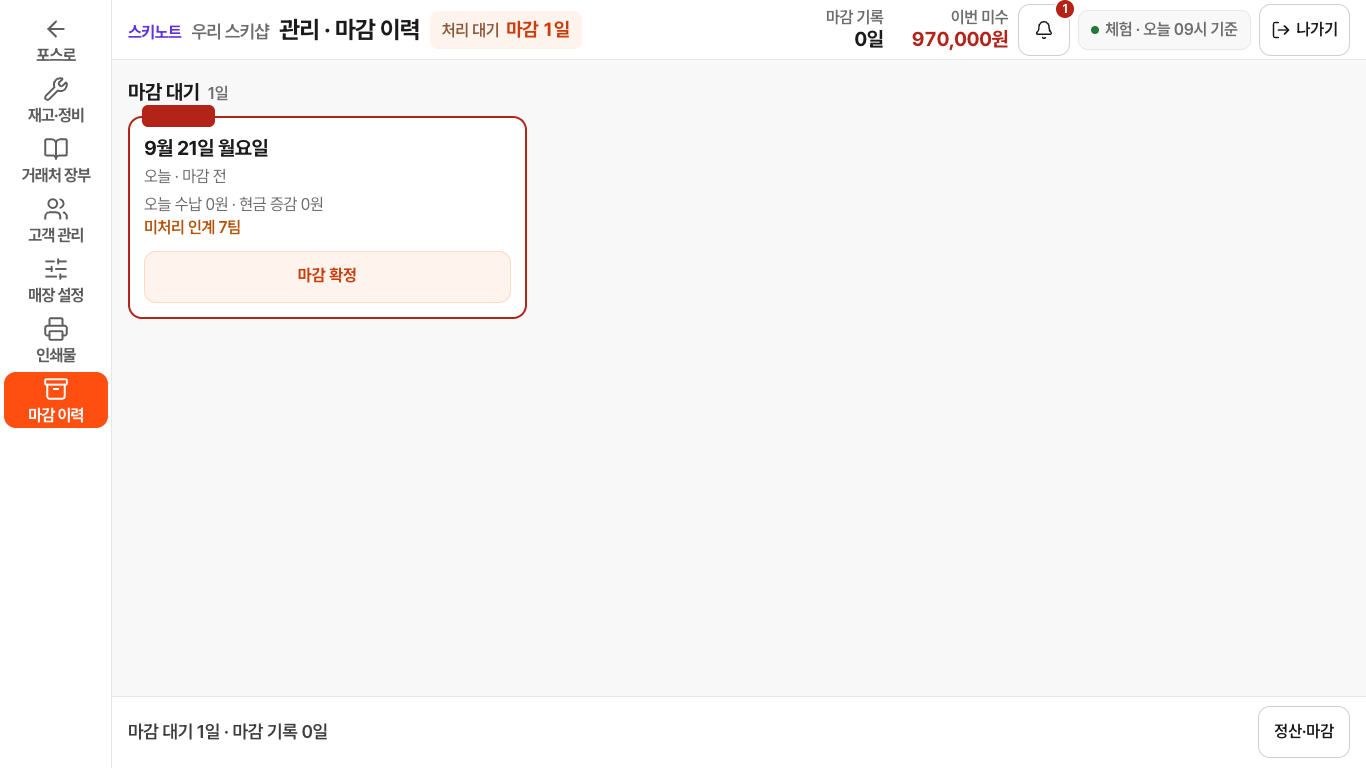
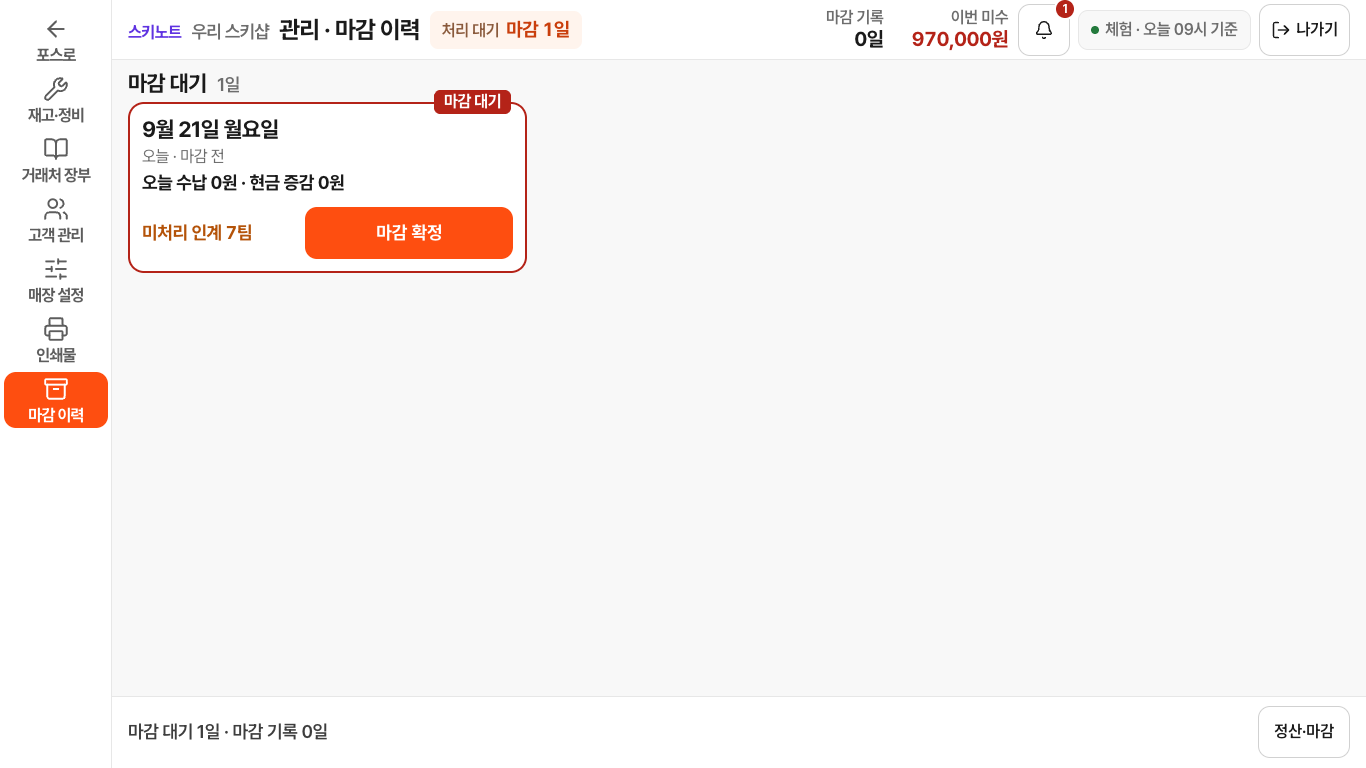
feat(pos): finish UI v4 — legacy link, cleanup and the record (M8)
- the ticket board no longer jumps to the old shell for a linked
  reservation; it explains the link in a POS window instead
- vehicle stock (store view) uses the fixed card, so the legacy card
  builder, the steps option and 31 unused style rules are removed
- docs/43 records the v4 work; docs/35 and docs/30 list the new check
  sizes (907×648, driver tablet and phone sizes); README gets one line
- final run: six POS smoke suites, 178 workflow, 25 returns and 18
  notification tests pass; 142 measured places are at zero on all rules;
  test:navigation and test:pwa already fail on main and are unrelated
- final captures (55 POS + 11 driver) are committed; bundle 1,594,581 bytes
- main and Pages are not touched: the release waits for confirmation

Changed region(s): [[0.0922, 0.0938, 0.3997, 0.375], [0.0922, 0.3438, 0.123, 0.375]]

diff --git a/design/app/pos-shell.css b/design/app/pos-shell.css
@@ -102,7 +102,6 @@
 #ski-ops[data-pos="true"] .pos-group-head{display:flex;align-items:baseline;gap:8px;margin:0 0 10px;font-size:20px;font-weight:700;letter-spacing:-.02em}
 #ski-ops[data-pos="true"] .pos-group-head small{font-size:16px;font-weight:600;color:var(--so-muted)}
 #ski-ops[data-pos="true"] .pos-card-grid{display:grid;grid-template-columns:repeat(auto-fill,minmax(360px,1fr));gap:12px;align-items:start}
-#ski-ops[data-pos="true"] .pos-card-grid.is-steps{grid-template-columns:repeat(auto-fill,minmax(280px,1fr))}
 #ski-ops[data-pos="true"] .pos-card{position:relative;display:flex;flex-direction:column;gap:6px;box-sizing:border-box;min-width:0;padding:16px;border-radius:14px;background:#fff;box-shadow:inset 0 0 0 1px var(--so-line)}
 #ski-ops[data-pos="true"] .pos-card[data-tone="red"],
 #ski-ops[data-pos="true"] .pos-card[data-tone="orange"],
@@ -127,37 +126,11 @@
 #ski-ops[data-pos="true"] .pos-badge[data-tone="blue"]{background:#e9f4ff;color:var(--tone-blue)}
 #ski-ops[data-pos="true"] .pos-badge[data-tone="purple"]{background:#efe8ff;color:var(--tone-purple)}
 #ski-ops[data-pos="true"] .pos-card-meta{font-size:var(--pos-fs-min);color:var(--so-muted);white-space:nowrap;overflow:hidden;text-overflow:ellipsis;font-variant-numeric:tabular-nums}
-#ski-ops[data-pos="true"] .pos-card-items{display:flex;flex-direction:column;gap:2px;min-width:0}
-#ski-ops[data-pos="true"] .pos-card-item{display:flex;align-items:baseline;justify-content:space-between;gap:10px;min-width:0;font-size:18px;font-weight:700;letter-spacing:-.02em;line-height:1.3}
-#ski-ops[data-pos="true"] .pos-card-item>span:first-child{min-width:0;white-space:nowrap;overflow:hidden;text-overflow:ellipsis}
-#ski-ops[data-pos="true"] .pos-card-item>span:last-child{flex-shrink:0;font-size:var(--pos-fs-min);font-weight:600;color:var(--tone-grey)}
-#ski-ops[data-pos="true"] .pos-card-item.is-done>span:first-child{text-decoration:line-through;color:var(--so-muted);font-weight:600}
-#ski-ops[data-pos="true"] .pos-card-item>span[data-tone="red"]{color:var(--tone-red)}
-#ski-ops[data-pos="true"] .pos-card-item>span[data-tone="orange"]{color:var(--tone-orange)}
-#ski-ops[data-pos="true"] .pos-card-item>span[data-tone="green"]{color:var(--tone-green)}
-#ski-ops[data-pos="true"] .pos-card-item>span[data-tone="blue"]{color:var(--tone-blue)}
-#ski-ops[data-pos="true"] .pos-card-item>span[data-tone="purple"]{color:var(--tone-purple)}
 #ski-ops[data-pos="true"] .pos-card-money{display:flex;flex-wrap:wrap;gap:4px 14px;font-size:17px;font-weight:700;letter-spacing:-.02em;font-variant-numeric:tabular-nums}
 #ski-ops[data-pos="true"] .pos-card-money span[data-tone="red"]{color:var(--tone-red)}
 #ski-ops[data-pos="true"] .pos-card-money span[data-tone="blue"]{color:var(--tone-blue)}
 #ski-ops[data-pos="true"] .pos-card-money span[data-tone="green"]{color:var(--tone-green)}
 #ski-ops[data-pos="true"] .pos-card-money span[data-tone="grey"]{color:var(--so-muted);font-weight:600}
-#ski-ops[data-pos="true"] .pos-card-figures{display:flex;align-items:flex-end;justify-content:space-between;gap:10px}
-#ski-ops[data-pos="true"] .pos-card-figures>span{display:flex;flex-direction:column;gap:2px;min-width:0}
-#ski-ops[data-pos="true"] .pos-card-figures>span:last-child{align-items:flex-end;text-align:right}
-#ski-ops[data-pos="true"] .pos-card-figures small{font-size:var(--pos-fs-min);font-weight:600;color:var(--so-muted)}
-#ski-ops[data-pos="true"] .pos-card-figures strong{font-size:28px;font-weight:700;letter-spacing:-.03em;line-height:1.05;font-variant-numeric:tabular-nums;white-space:nowrap}
-#ski-ops[data-pos="true"] .pos-card-figures strong.is-when{font-size:19px}
-#ski-ops[data-pos="true"] .pos-card-figures strong[data-tone="red"]{color:var(--tone-red)}
-#ski-ops[data-pos="true"] .pos-card-figures strong[data-tone="orange"]{color:var(--tone-orange)}
-#ski-ops[data-pos="true"] .pos-card-figures strong[data-tone="purple"]{color:var(--tone-purple)}
-#ski-ops[data-pos="true"] .pos-card-figures strong[data-tone="green"]{color:var(--tone-green)}
-#ski-ops[data-pos="true"] .pos-card-lines{display:flex;flex-direction:column;gap:1px;min-width:0}
-#ski-ops[data-pos="true"] .pos-card-lines span{font-size:var(--pos-fs-min);line-height:1.35;color:var(--so-muted);white-space:nowrap;overflow:hidden;text-overflow:ellipsis}
-#ski-ops[data-pos="true"] .pos-card-lines span[data-tone="red"]{color:var(--tone-red);font-weight:600}
-#ski-ops[data-pos="true"] .pos-card-lines span[data-tone="orange"]{color:var(--tone-orange);font-weight:600}
-#ski-ops[data-pos="true"] .pos-card-lines span[data-tone="purple"]{color:var(--tone-purple);font-weight:600}
-#ski-ops[data-pos="true"] .pos-card-lines span[data-tone="green"]{color:var(--tone-green);font-weight:600}
 #ski-ops[data-pos="true"] .pos-card-actions{display:flex;gap:8px;margin-top:6px}
 #ski-ops[data-pos="true"] .pos-card-actions .pos-button{flex:1;min-width:0;min-height:var(--pos-touch);padding:8px 10px;white-space:nowrap;overflow:hidden;text-overflow:ellipsis}
 #ski-ops[data-pos="true"] .pos-card-actions .pos-button.primary{min-height:var(--pos-touch);font-size:var(--pos-fs-body)}

diff --git a/design/app/pos-shell.js b/design/app/pos-shell.js
@@ -78,21 +78,6 @@
   const chipGo = (label, route, id = '', on = false, extra = '') => '<button type="button" class="pos-chip' + (extra ? ' ' + e(extra) : '') + '" data-go="' + e(route) + '" data-id="' + e(id) + '" aria-pressed="' + (on ? 'true' : 'false') + '">' + e(label) + '</button>';
   const toolbarLabel = text => '<span class="pos-toolbar-label">' + e(text) + '</span>';
   const group = html => '<div class="pos-toolbar-group">' + html + '</div>';
-  // One card. Fields are optional; missing ones are skipped so the same builder serves every list screen.
-  function card(c) {
-    const tone = c.tone || '', strong = ['red', 'orange', 'green'].includes(tone);
-    const legend = strong && c.badge ? '<span class="pos-card-legend">' + e(c.badge[0]) + '</span>' : '';
-    const badgeHtml = !legend && c.badge ? badge(c.badge[0], c.badge[1] || 'grey') : '';
-    const head = '<span class="pos-card-head"><span class="pos-card-name">' + e(c.name) + '</span>' + (c.phone ? '<span class="pos-card-phone">' + e(c.phone) + '</span>' : '') + badgeHtml + '</span>';
-    const meta = c.meta ? '<span class="pos-card-meta">' + e(c.meta) + '</span>' : '';
-    const figures = c.figures?.length ? '<span class="pos-card-figures">' + c.figures.map(f => '<span><small>' + e(f.label) + '</small><strong' + (f.when ? ' class="is-when"' : '') + ' data-tone="' + e(f.tone || '') + '">' + e(f.value) + '</strong></span>').join('') + '</span>' : '';
-    const items = c.items?.length ? '<span class="pos-card-items">' + c.items.map(([text, state, t, done]) => '<span class="pos-card-item' + (done ? ' is-done' : '') + '"><span>' + e(text) + '</span><span data-tone="' + e(t || 'grey') + '">' + e(state || '') + '</span></span>').join('') + '</span>' : '';
-    const lines = c.lines?.length ? '<span class="pos-card-lines">' + c.lines.map(([text, t]) => '<span data-tone="' + e(t || '') + '">' + e(text) + '</span>').join('') + '</span>' : '';
-    const money = c.money?.length ? '<span class="pos-card-money">' + c.money.map(([text, t]) => '<span data-tone="' + e(t || 'ink') + '">' + e(text) + '</span>').join('') + '</span>' : '';
-    const inner = head + meta + figures + items + lines + money;
-    const open = c.go ? '<button type="button" class="pos-card-open" data-go="' + e(c.go.page) + '" data-id="' + e(c.go.id ?? '') + '">' + inner + '</button>' : '<div class="pos-card-open">' + inner + '</div>';
-    return '<article class="pos-card"' + (tone ? ' data-tone="' + e(tone) + '"' : '') + (c.id ? ' data-card-id="' + e(c.id) + '"' : '') + '>' + legend + open + (c.actions ? '<div class="pos-card-actions">' + c.actions + '</div>' : '') + '</article>';
-  }
   // Grouped card grid. Legacy mode scrolls inside this region; v4 lists pass { fixed: true } and page by height instead (no scrolling).
   function cards(groups, options = {}) {
     const filled = groups.filter(g => g.cards && g.cards.length);
@@ -105,7 +90,7 @@
     }
     if (!filled.length) return '<div class="pos-cards" data-pos-scroll><div class="pos-empty"><strong>' + e(options.empty || '항목 없음') + '</strong>' + (options.emptyNote ? '<span>' + e(options.emptyNote) + '</span>' : '') + (options.emptyAction || '') + '</div></div>';
     return '<div class="pos-cards" data-pos-scroll>' + filled.map(g => '<section class="pos-group">' + (g.title ? '<div class="pos-group-head">' + e(g.title) + (g.sub ? '<small>' + e(g.sub) + '</small>' : '') + '</div>' : '')
-      + '<div class="pos-card-grid' + (options.steps ? ' is-steps' : '') + '">' + g.cards.join('') + '</div></section>').join('') + '</div>';
+      + '<div class="pos-card-grid">' + g.cards.join('') + '</div></section>').join('') + '</div>';
   }
   // ---- UI v4 (docs/42 2-3 · 2-4): fixed four-row card, text that is fitted instead of clipped, paging by height ----
   // Rows are single lines. When a row is too narrow, whole low-priority parts are dropped (never an ellipsis):
@@ -315,7 +300,7 @@
     const container = S.$('.pos-cards[data-pos-cards]'); if (!container) return;
     setPage('cards', getPage('cards') + Number(delta), { render: false }); layoutCards(container, delta);
   });
-  S.pos = Object.freeze({ navigation, page, button, row, pager, getPage, setPage, modal, prepareModal, card, orderCard, tile, lineRow, cards, fitPage, choice, calendar, badge, search, chip, chipGo, toolbarLabel, group, terms, storeName, menus,
+  S.pos = Object.freeze({ navigation, page, button, row, pager, getPage, setPage, modal, prepareModal, orderCard, tile, lineRow, cards, fitPage, choice, calendar, badge, search, chip, chipGo, toolbarLabel, group, terms, storeName, menus,
     field: (label, value = '', type = 'text', attrs = '') => S.field(e(label), value, type, attrs),
     label: value => '<span class="pos-label">' + e(value) + '</span>'
   });

diff --git a/design/app/pos-tickets.js b/design/app/pos-tickets.js
@@ -19,7 +19,7 @@
   function stockRow(asset) {
     const assigned = pending(asset), location = asset.location.kind === 'shop' ? '매장 보관' : F.vehicleName(asset.location.id);
     const order = assigned && D.order(assigned.reservationId);
-    const actions = asset.condition !== 'ready' ? '<button class="so-button pos-button" data-go="inventory">분실·상태 확인</button>' : asset.refundId ? '<button class="so-button pos-button" data-go="dispatch">발권처 반환 업무</button>' : assigned ? order ? O.go('연결 접수 확인', 'order-detail', order.id) : '<button class="so-button pos-button" data-go="lift-reservations">연결 예약 확인</button>'
+    const actions = asset.condition !== 'ready' ? '<button class="so-button pos-button" data-go="inventory">분실·상태 확인</button>' : asset.refundId ? '<button class="so-button pos-button" data-go="dispatch">발권처 반환 업무</button>' : assigned ? order ? O.go('연결 접수 확인', 'order-detail', order.id) : button('연결 예약 확인', 'pos-ticket-linked', assigned.reservationId)
       : (asset.location.kind === 'vehicle' ? button('실제 매장 입고', 'pos-ticket-receive', asset.id) : button('판매행에 배정', 'pos-ticket-target', asset.id))
         + button('예비 보관', 'pos-ticket-spare', asset.id) + button('발권처 반환', 'pos-ticket-refund', asset.id);
     return P.row(title(asset) + ' · ' + location, asset.id + ' · ' + period(asset) + ' · ' + (asset.condition !== 'ready' ? ({lost:'분실 · 발견 확인 필요',inspection:'점검 대기',repair:'수리 대기',cleaning:'세척 대기'}[asset.condition] || asset.condition) : asset.refundId ? '발권처 반환 대기' : assigned ? (order?.customer.name || assigned.reservationId) + ' 배정 중' : asset.ticket.transferable ? '양도 가능' : '양도 불가'), actions);
@@ -92,6 +92,7 @@
     const asset = D.snapshot.assets.find(a => a.id === id);
     request('차량의 권을 실제로 매장에 받았나요?', '<div class="pos-info"><strong>' + e(title(asset) + ' · ' + asset.id) + '</strong><p>' + e(F.vehicleName(asset.location.id)) + ' → 매장 보관</p></div>', '실물 1매 매장 입고', 'tickets.receive', { assetIds: [id] });
   });
+  S.action('pos-ticket-linked', id => P.modal('연결 예약 확인', '<div class="pos-confirm-summary"><strong>예약 번호 ' + e(id) + '</strong><span>이 권은 포스 접수가 아닌 예전 예약에 묶여 있습니다</span><span>예약을 바꾸려면 접수·예약에서 같은 고객을 찾아 주세요</span></div>', button('닫기', 'close') + O.go('1 접수·예약 열기', 'intake', '', 'primary')));
   S.action('pos-ticket-spare', id => {
     const asset = D.snapshot.assets.find(a => a.id === id);
     if (asset.purpose === 'spare' && !pending(asset) && !asset.refundId) { S.toast('현재 위치에 예비 보관 중입니다.'); return; }

diff --git a/design/app/pos-dispatch.js b/design/app/pos-dispatch.js
@@ -116,7 +116,7 @@
     const orders = (D.snapshot.orders || []).filter(o => o.totals.vehicleQuantity > 0);
     const body = driver()
       ? P.pager(D.snapshot.vehicle.totals.filter(t => t.current), 'vehicle-stock', t => P.row(t.label + ' ' + t.current + t.unit + ' · 차량 보관', '매장 적재 ' + t.fromShop + ' · 고객 회수 ' + t.fromCustomer + ' · 환불 대기 ' + t.refundPending + ' · 전달 가능 ' + t.availableToDeliver), driverRows())
-      : P.cards([{ title: '매장 입고 대기', sub: orders.length + '팀 · 차량 보관 ' + assets.length + '개', cards: orders.map(o => P.card({ tone: 'orange', badge: ['차량 보관 중', 'purple'], name: o.customer.name + ' 팀', phone: o.customer.phone || '', meta: (o.receiptNo || o.id) + ' · 매장 입고 대기 ' + o.totals.vehicleQuantity + '개', items: U.items(o), actions: b('차량 입고 확인 ' + o.totals.vehicleQuantity + '개', 'pos-receive', o.id, 'soft'), go: { page: 'order-detail', id: o.id } })) }], { empty: '매장 입고 대기 없음', emptyNote: '차량 보관 ' + assets.length + '개' });
+      : P.cards([{ title: '매장 입고 대기', sub: orders.length + '팀 · 차량 보관 ' + assets.length + '개', cards: orders.map(o => P.orderCard({ id: o.id, tone: 'orange', badge: ['차량 보관 중', 'purple'], name: o.customer.name + ' 팀', phone: o.customer.phone || '', metaParts: ['매장 입고 대기 ' + o.totals.vehicleQuantity + '개', o.receiptNo || o.id], itemParts: U.items(o).map(item => item[0]), state: ['차량 보관', 'purple'], money: [o.finance.dueWon ? '미수 ' + S.money(o.finance.dueWon) : '수납 완료', o.finance.dueWon ? 'red' : 'green'], actions: b('차량 입고 확인 ' + o.totals.vehicleQuantity + '개', 'pos-receive', o.id, 'primary'), go: { page: 'order-detail', id: o.id } })) }], { fixed: true, signature: 'vehicle-stock', empty: '매장 입고 대기 없음', emptyNote: '차량 보관 ' + assets.length + '개' });
     return P.page('차량 보관 물품', '', body, '<span>' + e('차량 보관 ' + assets.length + '개 · 입고 대기 ' + orders.length + '팀') + '</span><div class="so-actions">' + U.go('차량 업무', 'dispatch') + (!driver() ? b('리프트권 회수·재사용', 'pos-ticket-stock') : '') + '</div>', { wait: orders.length ? '입고 ' + orders.length + '팀' : '없음', sums: [['차량 보관', assets.length + '개', assets.length ? 'purple' : '']] });
   }
   S.action('pos-vendor-refund', id => { const task = D.snapshot.tasks.find(t => t.id === id); P.modal('발권처 환불 기록', '<div class="pos-info">실제로 발권처에 반환하고 확정한 금액만 기록</div>' + U.input('확정 환불 금액 (원)', 'vendorAmount', '', 'number', 'min="0" inputmode="numeric"') + U.errorBox(), b('취소', 'close') + b('발권처 반환·환불 확정', 'pos-vendor-refund-save', task.refundId, 'primary')); });

diff --git a/design/app/pos-orders.css b/design/app/pos-orders.css
@@ -16,9 +16,6 @@
 #ski-ops[data-pos="true"] .pos-info strong{display:block;color:var(--so-ink);font-size:18px;font-weight:700}
 #ski-ops[data-pos="true"] .pos-info p{margin:2px 0 0;color:#8a5a3c;font-size:16px;font-weight:500}
 #ski-ops[data-pos="true"] .pos-error{margin:0;padding:12px 16px;border-radius:12px;background:#fff0ef;color:var(--tone-red);font-size:16px;font-weight:600;line-height:1.45}
-#ski-ops[data-pos="true"] .pos-add-layout{display:grid;grid-template-columns:minmax(0,1.1fr) minmax(0,1fr);gap:14px;min-height:0;flex:1}
-#ski-ops[data-pos="true"] .pos-entry-panel{display:flex;flex-direction:column;gap:12px;min-height:0}
-#ski-ops[data-pos="true"] .pos-draft-lines{display:flex;flex-direction:column;min-height:0}
 #ski-ops[data-pos="true"] .pos-confirm-summary{display:flex;flex-direction:column;gap:6px;padding:14px 16px;background:#fff;border-radius:12px;box-shadow:inset 0 0 0 1px var(--so-line);font-size:16px;line-height:1.45}
 #ski-ops[data-pos="true"] .pos-confirm-summary strong{font-size:19px;font-weight:700;letter-spacing:-.02em}
 #ski-ops[data-pos="true"] .pos-confirm-summary b{color:var(--so-soft-ink);font-weight:700}
@@ -63,7 +60,6 @@
 #ski-ops[data-pos="true"] .pos-money-foot>span{flex:1 1 0;min-width:0;overflow:hidden;font-size:var(--pos-fs-min);color:var(--so-muted);white-space:nowrap}
 #ski-ops[data-pos="true"] .pos-line-row.is-static{cursor:default}
 #ski-ops[data-pos="true"] .pos-line-row.is-static>b{font-size:var(--pos-fs-min);font-weight:600;color:var(--so-muted)}
-#ski-ops[data-pos="true"] .pos-info-lines{display:flex;flex-direction:column;gap:6px}
 #ski-ops[data-pos="true"] .pos-info-line{display:flex;align-items:center;justify-content:space-between;gap:12px;box-sizing:border-box;min-height:56px;padding:10px 16px;border-radius:12px;background:#f2f2f2;font-size:16px}
 #ski-ops[data-pos="true"] .pos-info-line strong{font-size:18px;font-weight:700;letter-spacing:-.02em;white-space:nowrap}
 #ski-ops[data-pos="true"] .pos-info-line span{flex:1;min-width:0;text-align:right;font-weight:600;color:var(--so-muted);white-space:nowrap;overflow:hidden;text-overflow:ellipsis}

diff --git a/docs/43-ui-v4-implementation.md b/docs/43-ui-v4-implementation.md
@@ -1,0 +1,87 @@
+# 43. POS UI v4 반영 기록
+
+작성 2026-09-21 · 브랜치 `feat/pos-ui-v4`(`main` `1d1ae7f`에서 시작) · 계획서 [`docs/42`](42-ui-v4-implementation-plan.md) · 시안 [`docs/38`](38-higgsfield-pos-mockup-requests.md) · [`docs/40`](40-higgsfield-rest-screens.md) · [`docs/41`](41-higgsfield-driver-phone.md)
+
+## 1. 결과 요약
+
+- 힉스필드 시안 46장(포스 9 + 나머지 33 + 기사 휴대폰 4)을 실제 앱으로 옮겼다. 기능·저장 동작·확정 버튼 문구는 그대로이고 화면 배치와 크기 기준이 바뀌었다.
+- 기준: 글자 16px 이상(본문 18 · 제목 22 · 숫자 26~40), 누르는 곳 52px 이상(주 버튼 56, 기사 56/72, 휴대폰 확정 64), 레일 112px(폭 1000px 미만 96px), 헤더·필터 줄 60px, 하단 72px.
+- **글자를 자르지 않는다.** 한 줄에 안 들어가면 낮은 순위 조각을 통째로 빼고(품목은 `외 N종`), 이름은 두 줄 → 그래도 넘치면 뒤 낱말을 뺀다. 말줄임표를 쓰지 않는다.
+- **스크롤하지 않는다.** 목록은 화면 높이로 쪽을 나누고 쪽수는 하단 바에 둔다. 반쯤 잘린 카드·행이 나오지 않는다.
+- 화면 규칙 다섯 가지를 촬영과 업무 검사 도중에 같이 센다. **142곳(포스 촬영 55 + 기사 촬영 11 + 업무 검사 76) 모두 0건**이고, 0건이 아니면 `npm run pos:rules`가 실패한다.
+
+| 규칙 | v3(기준선) | v4 |
+|---|---:|---:|
+| ① 16px 미만 글자 | 1,354 | 0 |
+| ② 잘린 글자(버튼 밖으로 넘친 글자 포함) | 6 | 0 |
+| ③ 반쯤 잘린 카드·행 | 99 | 0 |
+| ④ 낮은 누르는 곳 | 631 | 0 |
+| ⑤ 허용 안 된 스크롤 | 36 | 0 |
+
+v3 값은 57장 기준(`docs/pos-ui-v4/baseline.json`), v4는 142곳 기준이다.
+
+## 2. 단계별 커밋
+
+| 단계 | 커밋 | 내용 |
+|---|---|---|
+| 준비 | `96d328b` | 시안 기록·등록부·검사 화면·가벼운 미리보기 46장(원본 PNG 127MB는 `claude/pos-ui-improvement-q9yqku`에만) |
+| M0 | `ee07e3c` | 규칙 검사 5종(`scripts/pos-ui-rules.cjs`) · `npm run pos:rules` · v3 기준선 |
+| M1 | `66cbb10` | 크기 변수(`--pos-*`) · 레일·헤더·필터 줄·하단 · 관리 스타일 분리 · 매장 정보에 `이 화면 크기` |
+| M2 | `09eb9df` | 네 줄 고정 카드 171px · 글자 맞춤 · 높이 쪽 나눔 → 접수·준비·이용·반납·리프트권·차량 운행 |
+| M3 | `37bee94` | 오늘 할 일 6타일(타일 전체가 누르는 곳) · 정산·마감 52px 행 + `오늘 마감 준비` |
+| M4 | `258254d` | 새 접수 3단계 · 일행·장비 추가 · 접수 완료 창 · 접수 상세(품목 묶음 카드 · 수납 다섯 줄) |
+| M5 | `5bff0a2` | 업무 검사가 여는 창까지 규칙 측정 · 선택 버튼 · 달력 창 · 수납 창 · 현금 입출금 창 |
+| M6 | `71851c0` | 관리 허브·인쇄물 타일 · 거래처·고객·마감 이력 고정 카드 · 규칙 강제 범위를 전체로 |
+| M7 | `4c57f6a` | 기사 휴대폰 배치(폭 600px 미만) · 360×640에서 4줄 |
+| M8 | 이 커밋 | 예전 셸로 빠지는 링크 제거 · 안 쓰는 카드 규칙 삭제 · 기록 문서 |
+
+단계마다의 수치와 판단은 `docs/42` 11절에 있다.
+
+## 3. 공용 부품 (`design/app/pos-shell.js`)
+
+| 부품 | 쓰는 곳 |
+|---|---|
+| `P.orderCard` — 네 줄 고정 카드(이름·연락처·배지 / 시간·장소·날짜 / 품목 + 상태 칩 하나 / 금액 하나 + 버튼 하나) | 목록 6화면 · 거래처 · 고객 · 마감 이력 · 차량 보관 |
+| `P.cards(groups, { fixed, lines, cardHeight, cols, focus, signature })` — 높이 쪽 나눔. 묶음 제목은 들어가는 카드 수가 줄지 않을 때만 묶음마다 두고, 아니면 한 줄로 합친다 | 위 화면 + 정산·마감 행 · 접수 상세 · 일행 목록 · 찾은 고객 |
+| `P.tile` — 전체가 누르는 곳인 타일(숫자 칸 선택) | 오늘 할 일 · 관리 허브 · 인쇄물 |
+| `P.lineRow` — 52px 한 줄 행(전체가 누르는 곳, 끝의 이름표는 표시만) | 정산·마감 · 일행 목록 · 찾은 고객 · 이력 |
+| `P.fitPage` + `data-fit="parts · items · alts · words · auto"` — 글자 맞춤 | 모든 화면과 창 |
+| `P.choice` — 숨은 입력을 채우는 선택 버튼 · `P.calendar` — 날짜별 건수가 보이는 달력 창 · `P.modal(…, sub)` — 창 부제 | 수납 · 현금 입출금 · 날짜로 보기 · 운행일 · 수령일 |
+| `.pos-split` · `.pos-panel(-head · -foot · -note)` · `.pos-option(-row)` · `.pos-stepper` · `.pos-summary-*` | 새 접수 · 정산·마감 · 접수 상세 |
+
+## 4. 시안과 다르게 간 곳
+
+`docs/42` 7절에 표로 정리했다. 요점: 카드의 금액과 버튼은 한 줄, 낮은 화면에서는 묶음 제목 한 줄, 정산·마감은 행 전체가 누르는 곳, 새 접수의 `예약·방문`·`임시 저장`은 자료에 없어 넣지 않음, 3단계는 이름표 + 버튼 한 줄 × 5줄, 접수 상세는 같은 품목·날짜를 한 장으로 묶음, 창의 확정 버튼 문구는 지금 앱의 문구.
+
+배치를 그대로 둔 곳(규칙은 0건): 지급·반납·교환·기간 변경·문제 해결 화면과 확인 창, 발권·마감 확정·사이즈 요청·업무 알림 창, 재고·정비(M02), 거래처 상세(M04), 고객 상세, 매장 설정(M06). 시안과의 남은 차이는 모양뿐이라 다음 작업으로 넘긴다.
+
+## 5. 검증 스크립트가 바뀐 곳
+
+- `smoke-pos-operating.cjs` · `smoke-pos-keypad.cjs`: 단가·수량·할인은 `직접 입력` 창에서 넣는다(`pos-line-detail`). 새 접수 저장 뒤 `접수 완료` 창을 닫는다. 일행이 있는 팀에 추가하면 새 일행 1명이 기본이라 `pos-person-add`를 누르지 않는다.
+- `capture-pos-release.cjs`: 출력이 `docs/pos-ui-v4`, 크기에 907×648 추가, 새 접수 3장과 접수 완료 촬영 추가, 12종 품목은 실제 12종 접수를 연다.
+- `capture-pos-driver.cjs`: 휴대폰 360×640 · 390×740 · 412×780과 처리·방문 결과·차량 보관 추가. 줄 수 검사 — 태블릿 3줄@1024×520 · 4줄@1024×600(그대로), 휴대폰 4줄@360×640(새로).
+- 업무 검사 5종에 `recorder()`를 걸어 지나가는 화면·창마다 규칙을 잰다(`work/pos-rules/*.json`).
+- 높이·글자 기준을 48px → 52px로 올림(`smoke-pos-management.cjs` · `smoke-pos-keypad.cjs`).
+
+입력 이름·동작 이름·확정 버튼 문구(`docs/42` 부록 A)는 바꾸지 않았다.
+
+## 6. 다시 확인하는 방법
+
+```bash
+npm run build
+npm run test:pos:operating && npm run test:pos:fulfillment && npm run test:pos:tickets && npm run test:pos:management && npm run test:pos:preinput && npm run test:pos:keypad
+npm run dev            # 다른 터미널에서 (포트 58148)
+npm run pos:rules      # 포스 촬영 + 규칙 검사
+npm run pos:screens:driver && node scripts/check-pos-ui-rules.cjs
+npm run check && npm run test:workflows:unit
+```
+
+Pages CI는 업무 규칙과 문법·빌드만 확인하고 화면은 보지 않는다. 화면 검사는 위 명령을 로컬에서 돌린다.
+
+## 7. 남은 확인 사항
+
+1. **공개 체험판(`main` · Pages) 반영은 아직 하지 않았다.** 반영 전에 결과 화면을 보고 확인을 받기로 했다(`docs/42` 10절 2번).
+2. 매장 포스의 실제 표시 영역: `관리 → 매장 설정 → 매장 정보` 아래 `이 화면 크기 W×H`를 읽어 알려 주면 그 크기를 촬영 기준에 넣는다(`docs/42` 10절 6번).
+3. 번들 1,594,581바이트(한도 1,750,000의 91.1%). 새 기능을 넣을 때 남은 여유는 약 155KB다.
+4. 배치를 그대로 둔 화면(4절)의 모양 맞추기.
+5. `npm run test:navigation`과 `npm run test:pwa`는 이 작업과 무관하게 `main`(`1d1ae7f`)에서도 실패한다(예전 셸의 메뉴 목록·설치 안내를 보는 검사가 v3 포스 셸 이후 갱신되지 않음). v4에서 새로 깨진 검사는 없다. 따로 고칠 일로 남긴다.

diff --git a/docs/42-ui-v4-implementation-plan.md b/docs/42-ui-v4-implementation-plan.md
@@ -253,7 +253,7 @@ npm run build && npm run pos:screens:driver
 - [x] M5 팝업 (2026-09-21)
 - [x] M6 관리 (2026-09-21)
 - [x] M7 기사 태블릿 · 휴대폰 (2026-09-21)
-- [ ] M8 마무리와 반영
+- [x] M8 마무리 (2026-09-21) — `main` · Pages 반영은 확인 대기
 
 | 날짜 | 단계 | 결과(검사 건수 · 번들 크기 · 커밋) |
 |---|---|---|
@@ -267,6 +267,7 @@ npm run build && npm run pos:screens:driver
 | 2026-09-21 | M5 | **검사 범위를 창까지 넓힘**: 업무 검사 5종이 지나가는 화면·창마다 규칙 다섯 가지를 같이 잰다(`recorder()` → `work/pos-rules/*.json`, 76단계 · 창 42개). `check-pos-ui-rules.cjs`가 이 값까지 합쳐 136곳을 세고, 운영·지급반납·리프트권·사전입력 검사의 화면·창은 전 항목 강제. **창 안 ①~⑤ 0건**(M1의 크기 기준으로 이미 충족). 공통 부품: 창 부제 줄(`P.modal(…, sub)`), 선택 버튼(`P.choice` — 숨은 입력을 채워 기존 `read()` 그대로), 달력 창(`P.calendar`). 바꾼 창: 수납(P21 — 제목 `대표자 팀 · 수납`, 부제에 접수번호·청구·수납, 미수 큰 글자, 처리 수단 선택 버튼, `전액`·`+50,000원`·`+10,000원`·`지우기`), 현금 입출금(P29 — 구분 선택 버튼, 부제에 오늘 현금 증감·예상 현금), 날짜로 보기(P30 — 달력 격자 + 날짜별 팀 수 · 차량 운행은 건수 · 6주짜리 달도 1024×600 안), 새 접수의 `달력`(수령일)과 이용 일수 `직접`(−/+ 창). 그 밖의 창(지급·반납 확인, 기간·수거 변경, 교환, 문제 해결, 발권, 마감 확정, 사이즈 요청, 업무 알림)은 규칙 0건이라 배치를 그대로 두었다 — 시안의 창 안 숫자판(P21)은 기존 `숫자판` 창을 계속 쓴다. 남은 위반은 관리 화면뿐(② 20 · ③ 14 · ⑤ 4 — 촬영 + 관리 검사 합계, M6). 업무 검사 6종·단위 178개 통과. 번들 1,593,828바이트(91.1%). 촬영본 60장 커밋 |
 | 2026-09-21 | M6 | 관리 허브를 타일 6개(M01 — 제목·배지·두 줄·`열기 ›`, 타일 전체가 누르는 곳)로, 인쇄물을 타일 3개로 바꿈. `P.tile`은 숫자 칸 없이도 쓰고(`figures` 선택), 동작 버튼(`action`)과 다른 표시 문구(`open`)를 받는다. 거래처 장부·고객 관리·마감 이력은 네 줄 고정 카드 + 높이 쪽 나눔(`P.orderCard`의 셋째 줄은 `itemFit`으로 품목·조각·낱말 맞춤을 고름). 마감 이력 카드의 `관리자 마감 재개`는 마감표 창 안에 있는 버튼을 쓴다. 재고·정비, 거래처 상세, 고객 상세, 매장 설정은 규칙 0건이라 배치를 그대로 둠(시안 M02·M04·M06과의 차이는 `docs/43`에 남김). **측정 136곳(촬영 60 + 업무 검사 76) 모두 ①~⑤ 0건 → 강제 범위를 전체(`keys: *`, `metrics: *`)로 올림.** 업무 검사 6종·단위 178개 통과. 번들 1,594,435바이트(91.1%) |
 | 2026-09-21 | M7 | **기사 휴대폰 배치**(`docs/41`): 같은 기사 화면이 폭 600px 미만이면 배치만 바꾼다(`@media (max-width:599px)` + `#ski-ops[data-actor="driver"]`). 헤더는 `제목 · 알림 종 · 나가기`(`스키노트`·매장명·요약 칩은 숨김, 종 배지는 버튼 안쪽으로), 필터는 `오늘·이전`·`내일`·`달력` 세 칸, 업무 줄은 세 줄 88px(`시간 · 팀` / 종류 배지 + 장소 / 품목 — 긴 글자는 조각·낱말을 빼서 맞춤) + 오른쪽 `업무 처리` 96×64px, 줄 수는 화면 높이로 계산(**360×640에서 4줄** · 390×740과 412×780은 5줄), 하단은 버튼 두 개가 폭을 나눠 가짐. 처리 화면은 보조 버튼 한 줄 + **확정 버튼 폭 전체 64px**, 방문 결과 창은 아래에 붙는 판 + 한 칸짜리 입력 + 폭 전체 확정 버튼. 태블릿은 행 목록 그대로이고 줄 수 검사(3줄@1024×520 · 4줄@1024×600)도 그대로 통과. `capture-pos-driver.cjs`에 휴대폰 3개 크기와 처리·방문 결과·차량 보관 화면을 추가하고 360×640의 4줄을 검사로 고정(기사 촬영 11장, 누르는 곳 56px 기준). **측정 142곳 모두 ①~⑤ 0건.** 업무 검사 6종·단위 178개 통과. 번들 1,599,620바이트(91.4%) |
+| 2026-09-21 | M8 | 포스에서 예전 셸로 빠지던 `연결 예약 확인`을 포스 안의 안내 창으로 바꿈(`pos-ticket-linked`). 차량 보관(매장 보기)을 고정 카드로 바꿔 예전 카드 부품(`P.card`)과 `steps` 옵션, 안 쓰는 규칙 31줄을 삭제(번들 −5KB). 기록 `docs/43`, `docs/35` 검사 크기와 `docs/30` 검증 기준에 907×648 · 기사 태블릿 1024×520 · 1280×720 · 기사 휴대폰 3개 크기 추가, README 한 줄. 최종 확인: 업무 검사 6종 · 단위 178 · 반납 25 · 알림 18 · `check` 통과, **규칙 142곳 0건**. `test:navigation` · `test:pwa`는 `main`에서도 실패하는 기존 문제(무관). 번들 1,594,581바이트(91.1%). 촬영본 66장 커밋. **`main` 반영과 Pages 배포는 하지 않음 — 확인을 받은 뒤 진행** |
 
 ## 12. 결정 기록
 

diff --git a/README.md b/README.md
@@ -10,6 +10,8 @@
 
 **[운영 화면 체험하기](https://rosookwan.github.io/ski-rent-ops/)** · [GitHub 저장소](https://github.com/rosookwan/ski-rent-ops)
 
+**2026-09-21 UI v4(브랜치 `feat/pos-ui-v4` · 반영 전):** 글자 16px 이상·누르는 곳 52px 이상(기사 56px)을 기준으로 포스 전 화면을 다시 맞췄습니다. 목록은 네 줄 고정 카드와 높이 쪽 나눔(스크롤 없음), 글자는 자르지 않고 조각을 빼서 맞춤, 새 접수는 3단계(끝 4자리로 고객 찾기 → 품목 격자 → 일정 선택 버튼), 기사 화면은 휴대폰(360×640)에서도 같은 흐름으로 씁니다. 촬영과 업무 검사가 지나가는 142곳에서 화면 규칙 다섯 가지를 세며 모두 0건입니다 — [`docs/43-ui-v4-implementation.md`](docs/43-ui-v4-implementation.md) · 화면 모음 [`docs/pos-ui-v4/`](docs/pos-ui-v4/index.html).
+
 **2026-09-16 UI v3:** 포스 화면을 96px 아이콘 레일(포스 9개 · 관리 7개)과 시간대별 카드 목록으로 다시 구성하고, 상태·금액 문구를 지급 전·이용 중·미수·수납 같은 표준 용어로 통일했습니다. 리프트권·마감 이력 화면과 매장 설정의 매장 정보 탭을 추가했고, 기사 로그인 화면은 보라색 카드로 유지합니다. 1024×600 / 1024×768 / 1366×768에서 40장을 촬영해 넘침 0건을 확인했습니다. [반영 기록과 재검증 방법](docs/37-ui-v3-implementation.md) · [촬영본 모음](docs/pos-ui-v3/index.html) · [요청서](docs/35-handoff-revision-spec.md)를 참고하세요.
 
 **포스·관리 메뉴 분리:** 왼쪽 아래 `관리화면으로` / `포스화면으로` 버튼으로 전환합니다. 양쪽의 오늘 현황은 같은 대시보드이고, 리프트권 예약도 같은 화면과 데이터를 사용합니다. 관리 메뉴로 옮긴 6개 화면과 복귀 동작은 [메뉴 구성·검증 기록](docs/21-pos-management-navigation.md)에 정리했습니다.

diff --git a/docs/35-handoff-revision-spec.md b/docs/35-handoff-revision-spec.md
@@ -320,7 +320,7 @@
 
 - 색·글자·간격·버튼 높이는 README의 Design Tokens 절 그대로. 레일 치수는 1절, 카드 치수는 2절.
 - 본문 16~18px, 이름·시각 20px, 큰 수량 28px, 레일 글자 14px, 보조 버튼 48px, 주요 버튼 56px, 차량 주요 버튼 72px. 화면이 좁아도 글자·버튼을 줄이지 않는다.
-- 검사 크기: 매장 1366×768 · 1024×768 · 1024×600, 차량 1024×600, 고객 390·360px, 인쇄 A4 12pt 이상.
+- 검사 크기: 매장 1366×768 · 1024×768 · 1024×600 · 좁은 창 907×648(2026-09-21 추가 · UI v4), 차량 태블릿 1024×520 · 1024×600 · 1280×720, 차량 휴대폰 360×640 · 390×740 · 412×780(2026-09-21 추가 · `docs/41`), 고객 390·360px, 인쇄 A4 12pt 이상.
 - 통과 기준: 레일 9개가 세로 스크롤 없이 보임, 핵심 정보(대표자·접수번호·품목·수량·일정·금액)와 취소·확정 버튼이 스크롤 없이 보임, 팝업·키패드가 확정 버튼을 가리지 않음, 30명·12품목·100건 목록에서 카드 목록만 스크롤.
 
 ## 7. 작업 순서

diff --git a/docs/30-pos-workflow-development-plan.md b/docs/30-pos-workflow-development-plan.md
@@ -160,6 +160,7 @@
 |---|---|
 | 필수 표시 영역 | 1024×768, 1024×600, 1366×768 |
 | 추가 회귀 | 1440×900, 768px 폭, 고객 화면 390/360px, 차량 1024×600 |
+| UI v4 추가(2026-09-21) | 좁은 창 907×648, 차량 태블릿 1024×520 · 1280×720, 차량 휴대폰 360×640 · 390×740 · 412×780. 화면 규칙 다섯 가지(`npm run pos:rules`)는 `docs/43` 참고 |
 | 핵심 스크롤 | 문서뿐 아니라 핵심 패널·팝업의 가로/세로 스크롤 없이 전부 접근 가능 |
 | 잘림/겹침 | 텍스트·버튼이 부모 영역에 잘리거나 고정 바/키패드 아래 가려지지 않음 |
 | 많은 자료 | 1/10/30명 팀, 정의한 최대 허용 인원, 여러 추가일, 12종 이상 품목, 긴 고객명/장소, 100건 대기 목록에서 페이지 이동·선택 합계·확정 대상 유지 |
